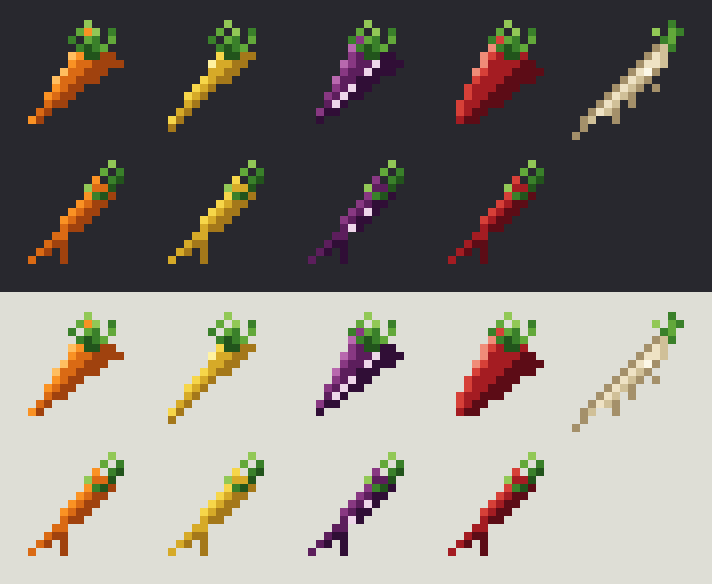
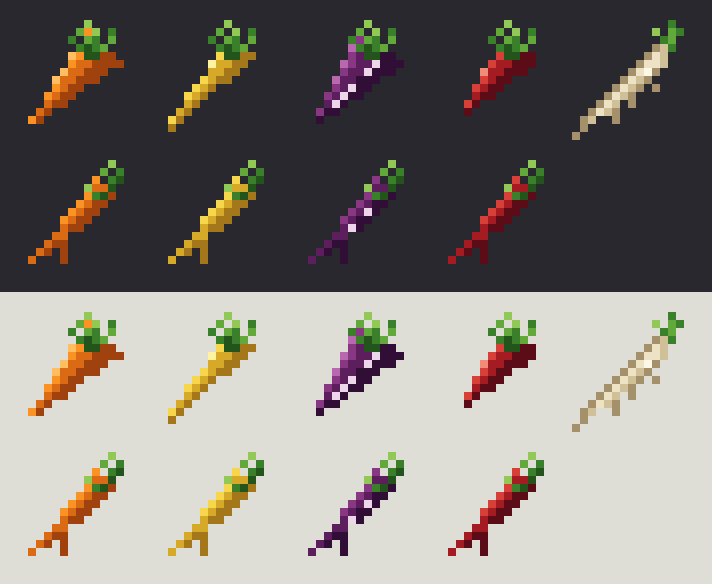
art(items): redraw red carrot as a pointed taper
The stubby wide shape read as a pepper. Now a deep crimson taper, a bit
shorter than orange, with a clear pointed tip and ring pixels.

Changed region(s): [[0.618, 0.5548, 0.7725, 0.7089], [0.618, 0.0616, 0.7725, 0.2158]]

diff --git a/tools/gen_carrot_icons.py b/tools/gen_carrot_icons.py
@@ -98,9 +98,11 @@ icons['carrot'] = px
 icons['carrot_yellow'] = render([(11.4, 4.2, 1.8, 14.8, 2.1, 0.25)], PAL['yellow'], MODERN_LEAVES)
 # purple: dark and thick, pale core hint
 icons['carrot_purple'] = render([(11.2, 4.6, 3.0, 13.8, 3.5, 0.4)], PAL['purple'], MODERN_LEAVES)
-# red: stubby and round, deep
-icons['carrot_red'] = render([(11.0, 5.0, 4.4, 12.6, 3.9, 1.7), (4.4, 12.6, 3.4, 13.8, 1.7, 0.4)],
-                             PAL['red'], MODERN_LEAVES)
+# red: a deep crimson taper, a little shorter than orange, clear pointed tip, ring pixels
+icons['carrot_red'] = render([(11.2, 4.6, 3.4, 13.4, 2.8, 0.2)], PAL['red'], MODERN_LEAVES)
+for p in [(8, 8), (7, 9), (6, 10), (9, 7)]:
+    if p in icons['carrot_red']:
+        icons['carrot_red'][p] = PAL['red']['D']
 
 
 def eastern(pal):
